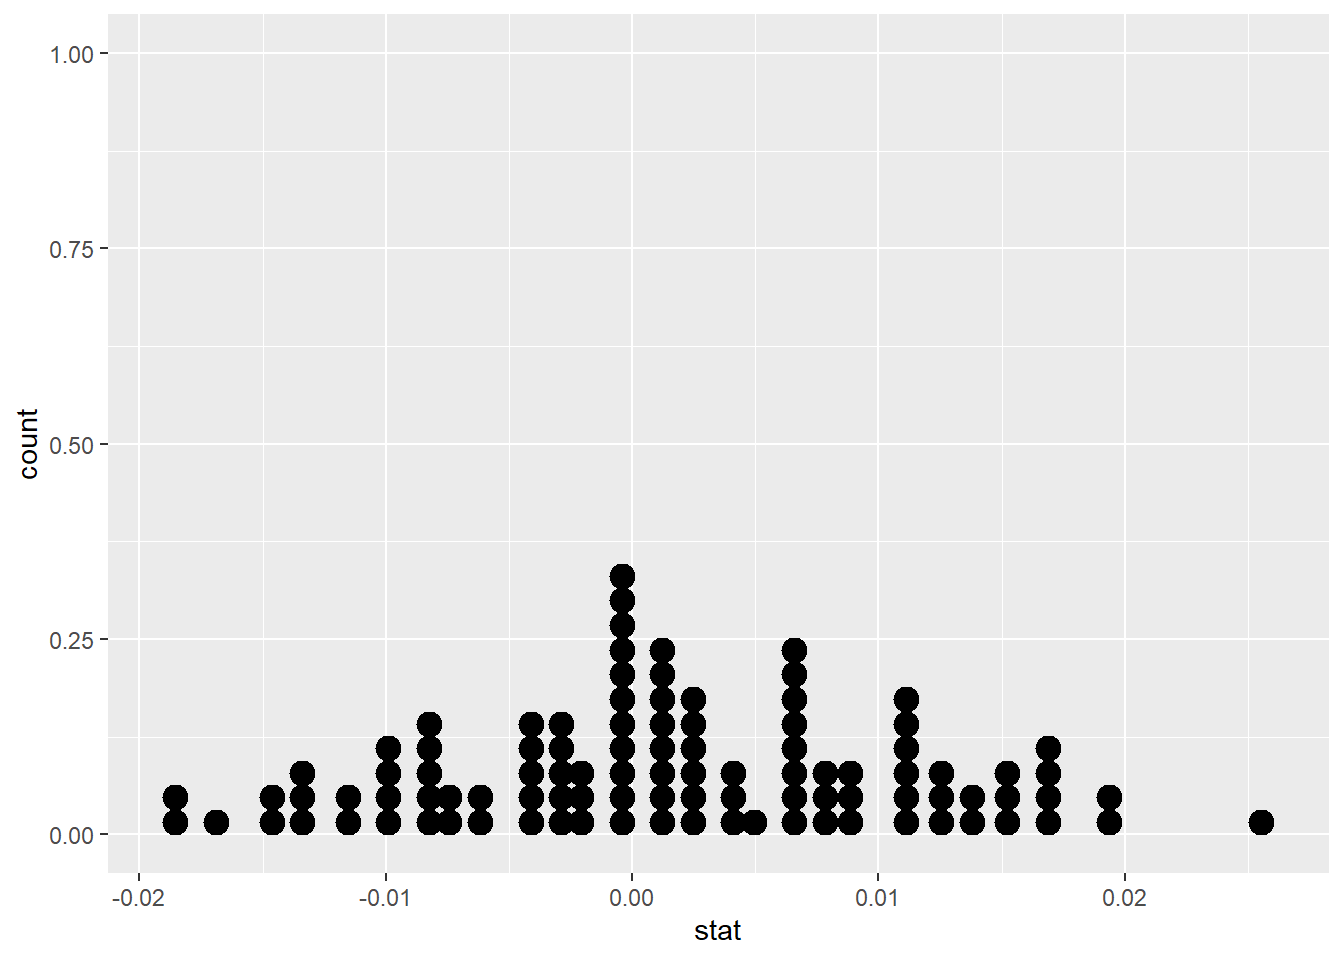
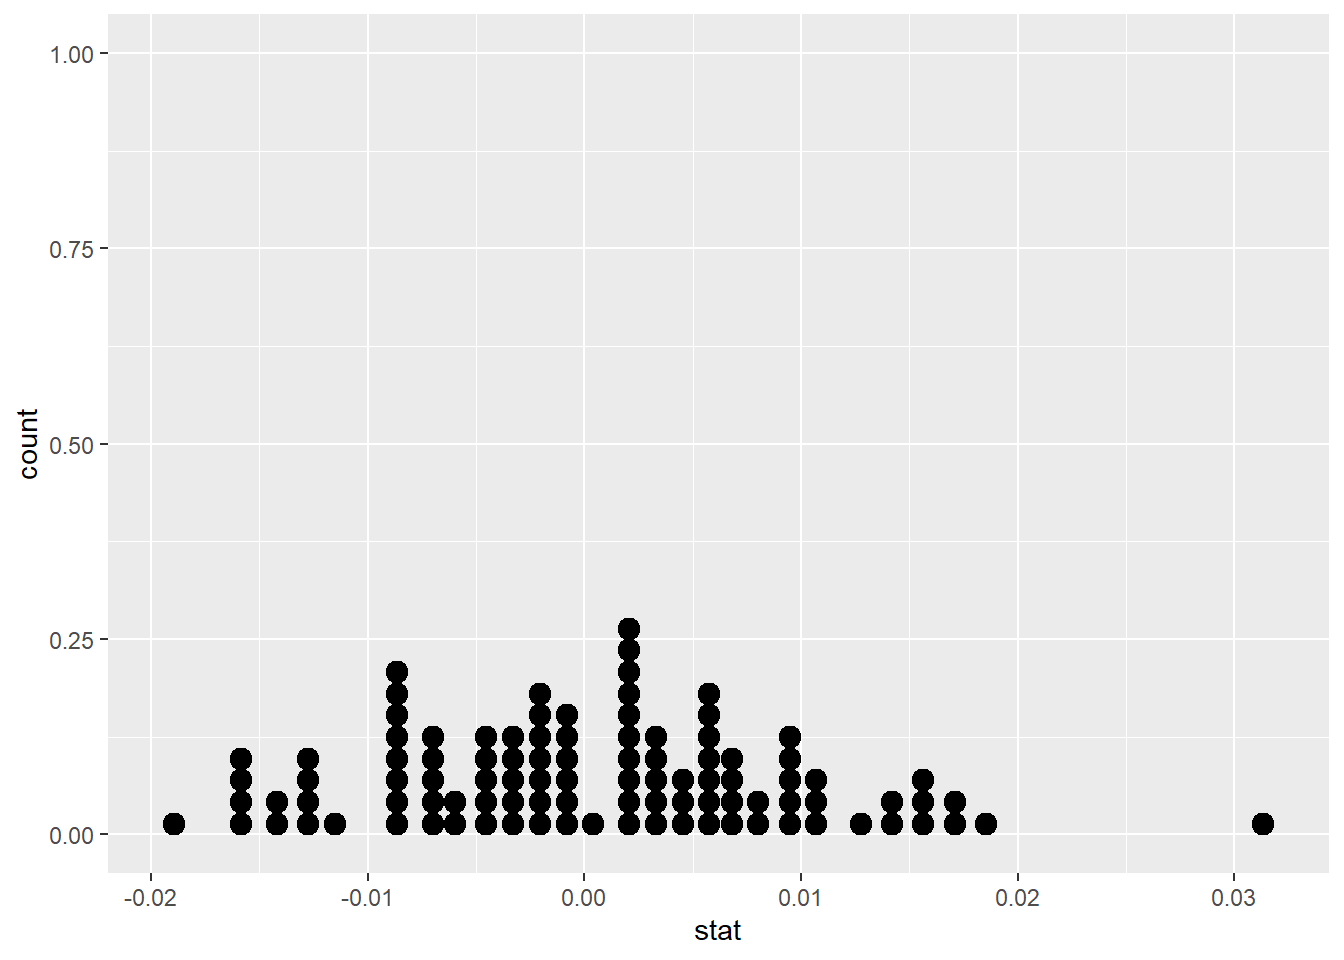
ss

diff --git a/content/post/R/2021-10-13-foundations-of-inference/index.en.html b/content/post/R/2021-10-13-foundations-of-inference/index.en.html
@@ -144,16 +144,16 @@ homeown_perm</code></pre>
 ## # Groups:   replicate [10]
 ##    HomeOwn Gender replicate
 ##    &lt;fct&gt;   &lt;fct&gt;      &lt;int&gt;
-##  1 Own     male           1
-##  2 Own     male           1
-##  3 Own     male           1
+##  1 Rent    male           1
+##  2 Rent    male           1
+##  3 Rent    male           1
 ##  4 Rent    male           1
-##  5 Own     female         1
-##  6 Rent    male           1
+##  5 Rent    female         1
+##  6 Own     male           1
 ##  7 Rent    male           1
 ##  8 Rent    female         1
 ##  9 Own     female         1
-## 10 Own     female         1
+## 10 Rent    female         1
 ## # ... with 97,110 more rows</code></pre>
 </div>
 <div id="randomized-statistics-and-dotplot" class="section level2">
@@ -178,16 +178,16 @@ homeown_perm</code></pre>
 <pre><code>## # A tibble: 100 x 2
 ##    replicate      stat
 ##        &lt;int&gt;     &lt;dbl&gt;
-##  1         1  0.00164 
-##  2         2  0.00247 
-##  3         3  0.00659 
-##  4         4 -0.00165 
-##  5         5  0.00329 
-##  6         6 -0.00742 
-##  7         7 -0.00247 
-##  8         8  0.000821
-##  9         9 -0.000415
-## 10        10  0.00123 
+##  1         1 -0.0144  
+##  2         2 -0.000827
+##  3         3 -0.00618 
+##  4         4 -0.000827
+##  5         5  0.00412 
+##  6         6 -0.00247 
+##  7         7 -0.0136  
+##  8         8  0.0235  
+##  9         9 -0.00700 
+## 10        10  0.00288 
 ## # ... with 90 more rows</code></pre>
 <pre class="r"><code># Perform 100 permutations
 homeown_perm &lt;- homes %&gt;%
@@ -367,13 +367,13 @@ disc_perm %&gt;%
   # Calculate difference in proportion, male then female
   calculate(stat= &quot;diff in props&quot;, order= c(&quot;male&quot;, &quot;female&quot;))</code></pre>
 <pre><code>## # A tibble: 5 x 2
-##   replicate    stat
-##       &lt;int&gt;   &lt;dbl&gt;
-## 1         1 -0.125 
-## 2         2  0.208 
-## 3         3  0.125 
-## 4         4  0.0417
-## 5         5 -0.0417</code></pre>
+##   replicate   stat
+##       &lt;int&gt;  &lt;dbl&gt;
+## 1         1 -0.125
+## 2         2  0.125
+## 3         3  0.292
+## 4         4 -0.125
+## 5         5  0.208</code></pre>
 </div>
 <div id="hypothesis-testing-errors-opportunity-cost" class="section level2">
 <h2>3- Hypothesis testing errors: opportunity cost</h2>
